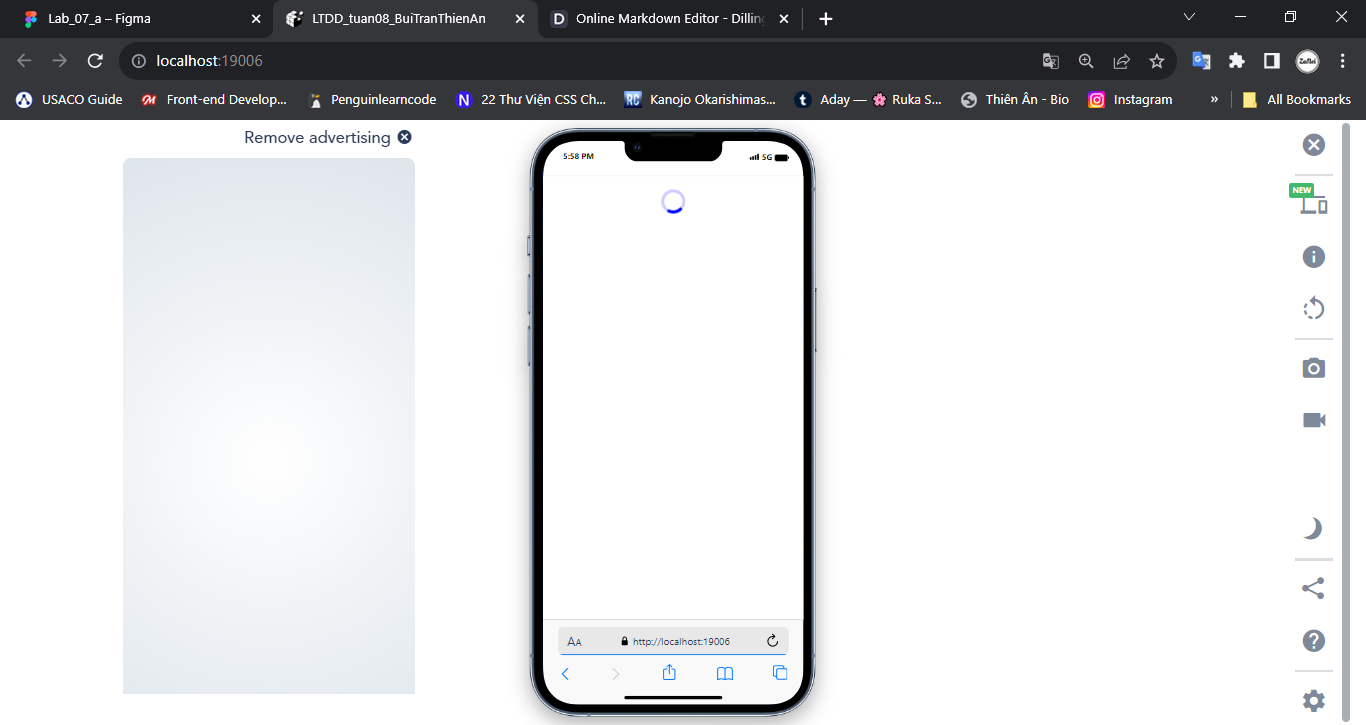
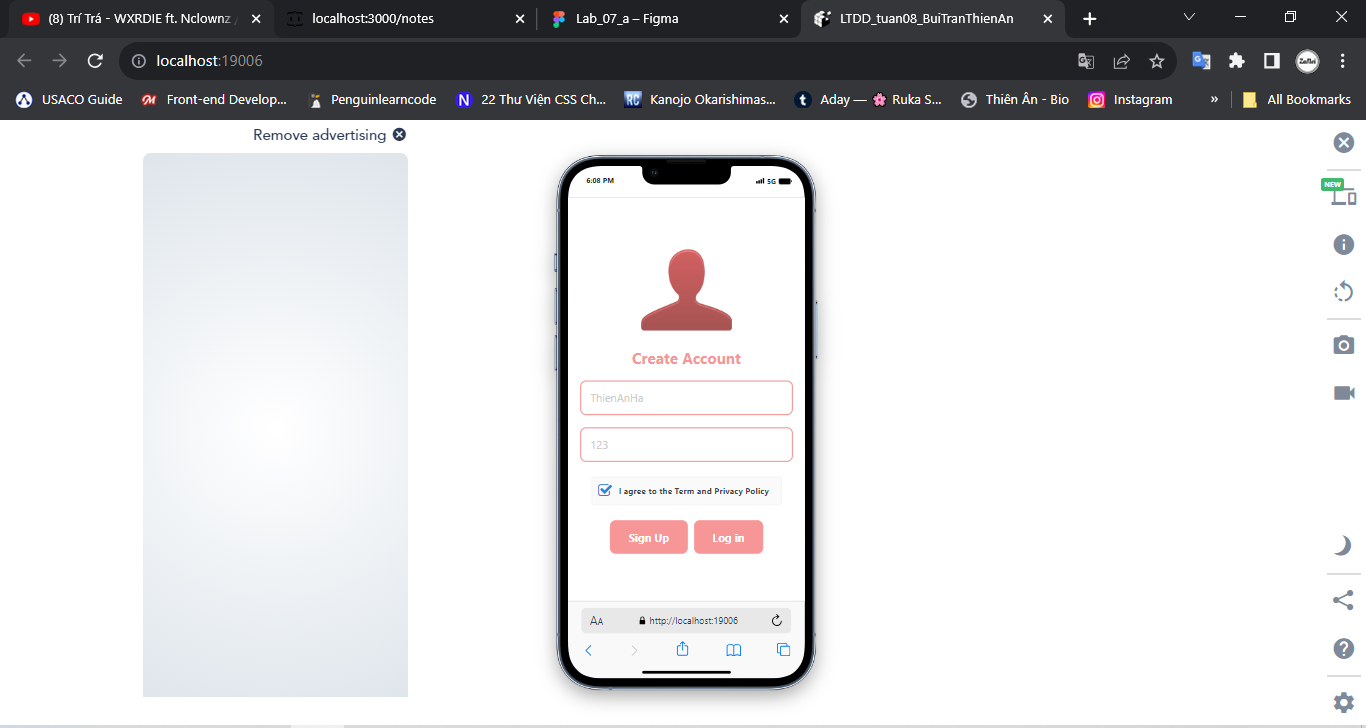
Update README

diff --git a/App.js b/App.js
@@ -7,15 +7,14 @@ const Stack = createStackNavigator();
 
 export default function App() {
   return (
-    // <NavigationContainer>
-    //   <Stack.Navigator
-    //     initialRouteName="Screen01"
-    //     screenOptions={{ headerShown: false }}
-    //   >
-    //     <Stack.Screen name="Screen01" component={Screen01} />
-    //     <Stack.Screen name="Screen02" component={Screen02} />
-    //   </Stack.Navigator>
-    // </NavigationContainer>
-    <Screen02></Screen02>
+    <NavigationContainer>
+      <Stack.Navigator
+        initialRouteName="Screen01"
+        screenOptions={{ headerShown: false }}
+      >
+        <Stack.Screen name="Screen01" component={Screen01} />
+        <Stack.Screen name="Screen02" component={Screen02} />
+      </Stack.Navigator>
+    </NavigationContainer>
   );
 }

diff --git a/Screen01.js b/Screen01.js
@@ -23,7 +23,10 @@ export default function Screen01() {
 
   const handleSignUp = async () => {
     try {
-      const response = await axios.post("http://localhost:3000/account", user);
+      const response = await axios.post("http://localhost:3000/account", {
+        name,
+        password,
+      });
       const userCreated = response.data;
 
       console.log("User created:", userCreated);

diff --git a/README.md b/README.md
@@ -1,13 +1,10 @@
 # LTDD_tuan08_BuiTranThienAn
-# 1. Screen01: handle loading
-![](demos/2.PNG)
-# 2. Screen01: fetch donutDB from MockAPI using Axios
+# 1. Screen01: Create Account UI
 ![](demos/1.PNG)
-# 3. Screen01: handle data transfer when clicking the button 
+# 2. Screen01: SignUp
+![](demos/2.PNG)
 ![](demos/3.PNG)
-# 4. Screen01: handle search
-- Return filteredData array when a result is found 
-- Return empty array when no results are found
-- Return originalData when textSearch is empty
+# 3. Screen01: LogIn
+- Navigate to Screen02
+# 4. Screen02: Display note and priority
 ![](demos/4.PNG)
-
